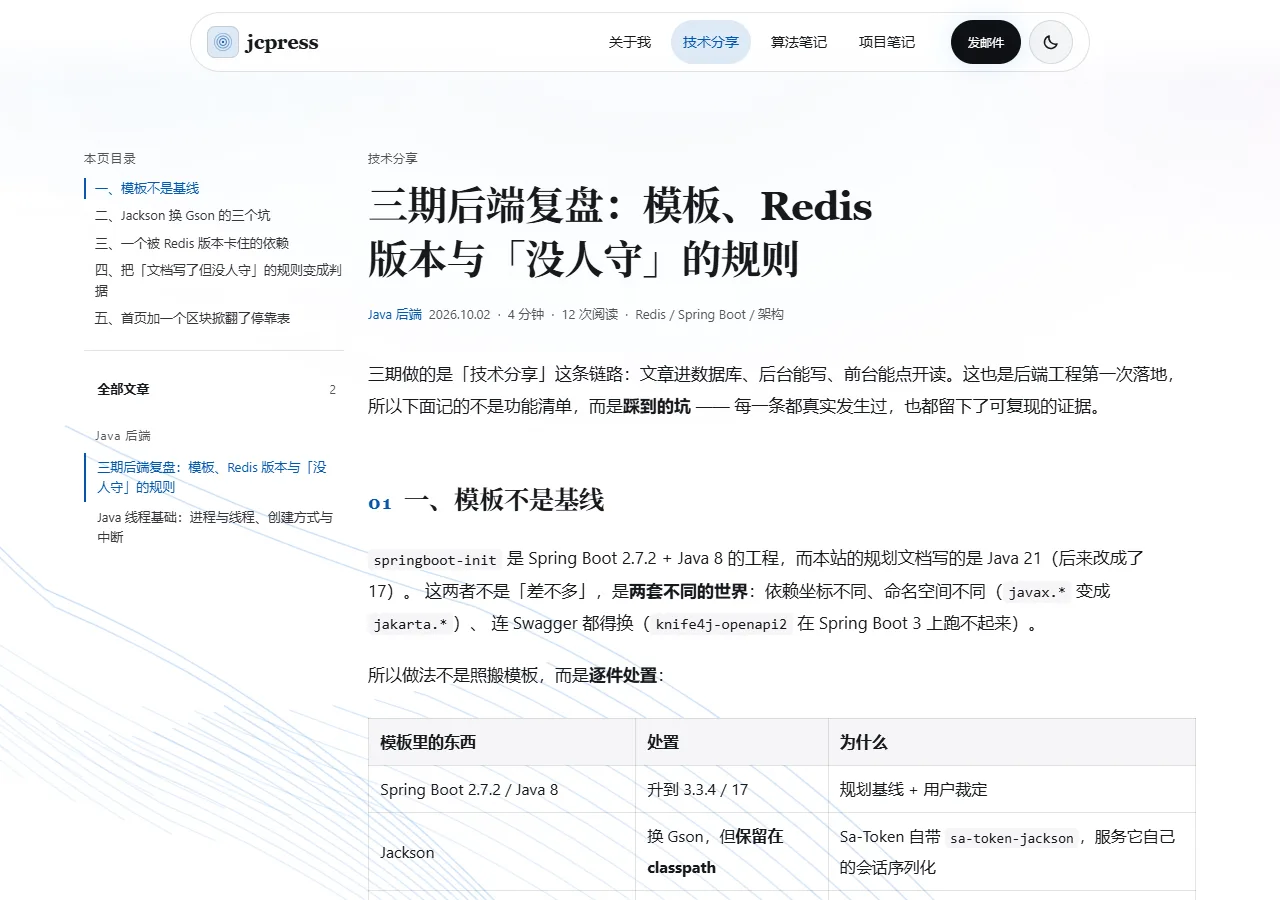
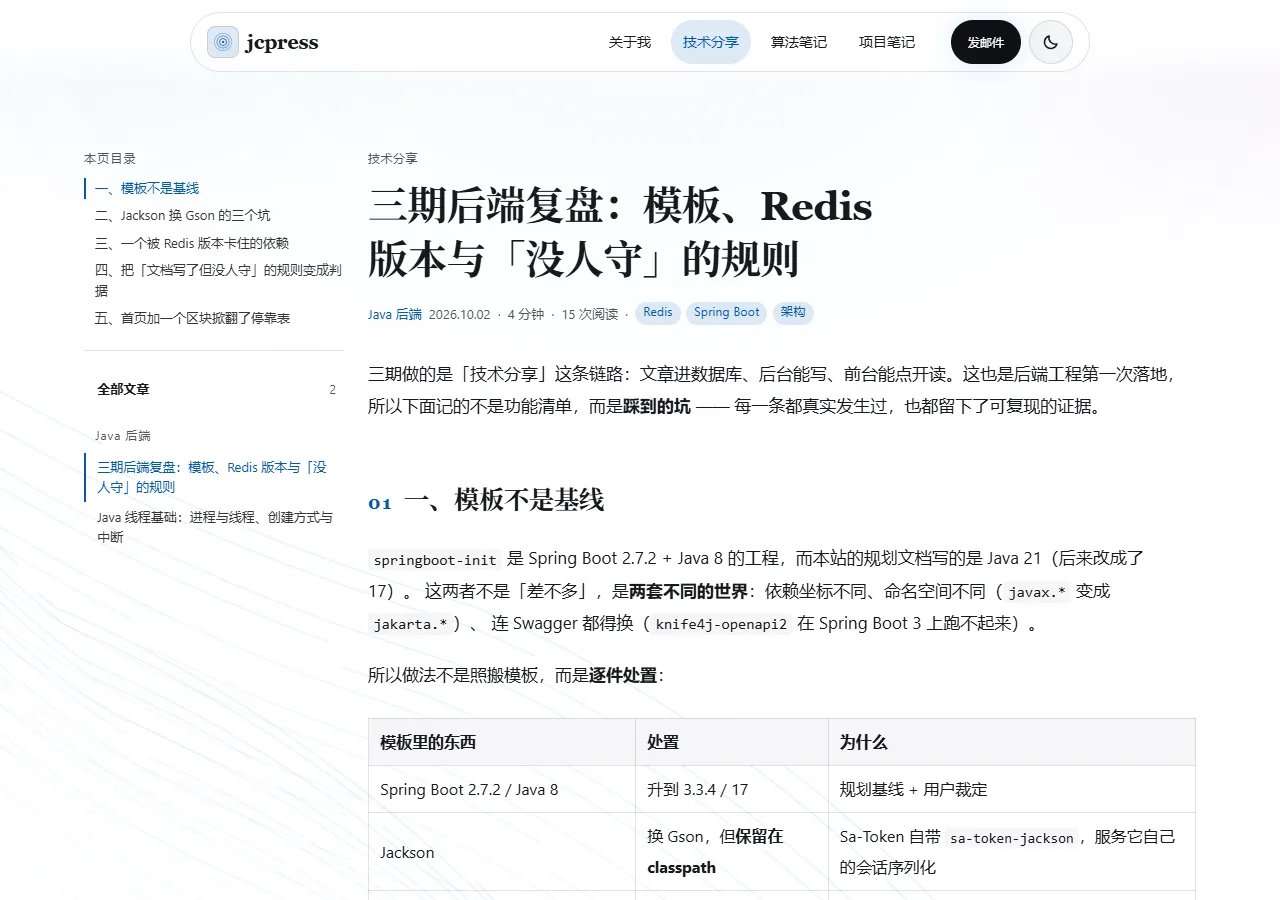
docs(readme): 重拍技术分享两张图（搜索框、标签胶囊）
- tech-detail-light.webp：标签从「Redis / Spring Boot / 架构」斜杠文字
  改为胶囊（1280×900，76KB）
- tech-list-light.webp：重拍并首次在 README 引用 —— 搜索框只在这一页上，
  裁到 780 高去掉站点页脚（1280×780，37KB）
- README 技术分享那句补上「可按标题与标签搜索」
- 新增 .tmp/tools/make-readme-tech.cjs：只拍这两张，不重拍首页（首页没改，
  重拍只会在 diff 里多两张流线相位噪点）

两张都是本地真实数据，非造数据

Changed region(s): [[0.5, 0.3111, 0.6562, 0.3733]]

diff --git a/docs/dev-journal.md b/docs/dev-journal.md
@@ -4434,3 +4434,30 @@ antd 6 的规则是 `.css-hash.ant-input-affix-wrapper`（0,2,0），我用 `.se
 | 悬停「并发」 | 底色 `rgba(20,99,184,.14)` → 不变 |
 | 命中高亮 | 「Redis」`rgb(9,111,220)` 实底 + 白字，「并发」浅底 |
 | 测试 | 详情页 8/8（断言从「href 对不对」改成「根本不是 `<a>`、没有 href」）；全量 154/154 |
+
+---
+
+## 75. 重拍 README 的技术分享图（2026-10-24 22:46 起）
+
+用户原话：「把README的技术分享图片更新成最新的网页内容」。README 里的 `tech-detail-light.webp` 还是 10-21 的版式 —— 标签还是一行斜杠文字（`Redis / Spring Boot / 架构`），搜索框根本不存在。
+
+### 75.1 为什么另写一个脚本，而不是跑老的 make-readme-shots.cjs
+
+老脚本会把**首页亮/暗、后台 AI 面板**一起重拍。这次只改了技术分享，首页没动 —— 重拍首页只会在 diff 里多两张「流线相位不同」的噪点图（那正是老脚本要 freezeFlowFrame 的原因）。新增 `.tmp/tools/make-readme-tech.cjs`，只拍两张，流程与老脚本一致：1280 视口 → 等真实数据到位 → 冻动画 → 截图 → 借 Chromium 编 webp(q=0.82)。
+
+### 75.2 拍的过程中修正的三处
+
+1. **主题要写 `localStorage['jcpress-theme']`**，只设 `colorScheme: 'light'` 不够 —— 站点的主题真相在存储里，`index.html` 首帧脚本按它写 `data-theme`，用户上次切暗色的话就会拍出暗图（同 decisions #145）。
+2. **列表页剪掉页脚**。900 高会把「有合适的机会，随时找我」拍进来，那是站点页脚，不是技术分享的内容。裁到 780。
+3. **等待条件选对**：列表页等 `[data-card]`（等错就是空骨架），详情页等「次阅读」（meta 行出现说明数据和标签都渲染完了）。
+
+### 75.3 README 顺带补一张列表图
+
+`tech-list-light.webp` 这个文件之前就在仓库里，但**没有任何地方引用**。这次把它更新并放进 README —— 因为这一页最显眼的新东西（搜索框）只在列表页上，只放详情页等于没拍到。同时把那句话补成「可按标题与标签搜索」。
+
+| 文件 | 尺寸 | 体积 | 之前 |
+| :-- | :-- | :-- | :-- |
+| `tech-list-light.webp` | 1280×780 | 37KB | 30KB（1280×900，且未被引用） |
+| `tech-detail-light.webp` | 1280×900 | 76KB | 84KB（标签是斜杠文字） |
+
+两张都是真实数据（本地 MySQL，2 篇已发布文章），没有造数据。

diff --git a/README.md b/README.md
@@ -30,7 +30,9 @@
 
 **首页**：个人经历内容展示：实习、项目、个人经历。
 
-**技术分享**：技术分享文章列表，点击文章可查看详情页。
+**技术分享**：技术分享文章列表，可按标题与标签搜索，点击文章可查看详情页。
+
+<img src="docs/assets/tech-list-light.webp" alt="技术分享列表（含搜索）" width="880">
 
 <img src="docs/assets/tech-detail-light.webp" alt="技术分享详情页" width="880">
 
